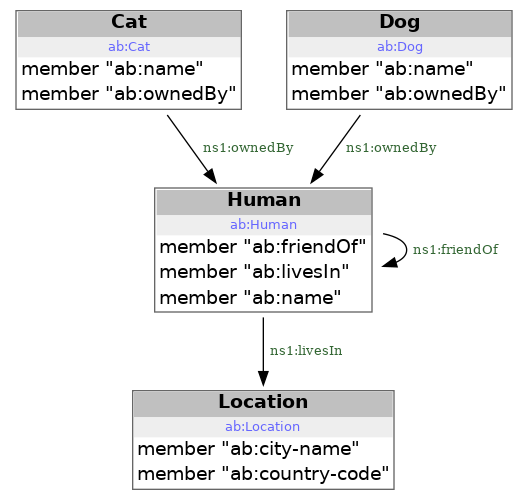
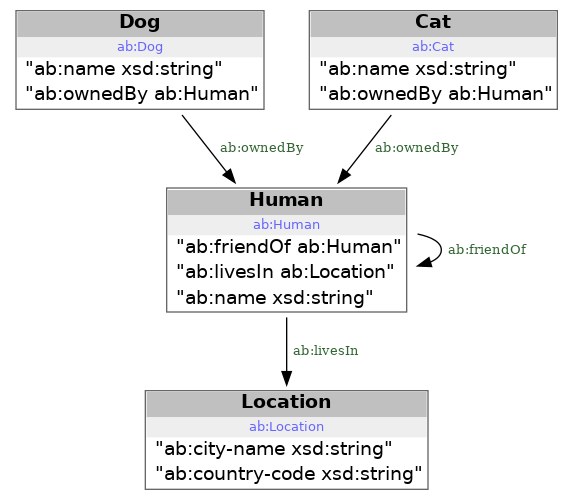
fixed issue in kgm misc gv construct query: rdflib query returns graph with missing source namespaces

diff --git a/py-packages/kgm/kgm/__main__.py b/py-packages/kgm/kgm/__main__.py
@@ -99,9 +99,10 @@ def do_misc_gv(args):
             print(query_text)
             print("---")
             rq_res = g.query(query_text)
+            rq_res.graph.namespace_manager = g.namespace_manager # to fix missing namespace bind after construct
+
             print(f"after contruct: {len(rq_res.graph)} triples")
-            for row in rq_res.graph:
-                print([str(x) for x in row])
+            #for row in rq_res.graph: print([str(x) for x in row])
             print(f"saving to {output_png_file}")
             graphviz_utils.generate_png(rq_res.graph, png_file = output_png_file)
     else:

diff --git a/docs/docs/sparql-example/rdflib-sparql-short.py b/docs/docs/sparql-example/rdflib-sparql-short.py
@@ -1,12 +1,9 @@
 import urllib.request
 import rdflib
 
-# to quickly look at content: wget -q -O - http://h1:8001/kgm/sparql-example/ab.data.ttl
-
 ttl_file_url = 'http://h1:8001/kgm/sparql-example/ab.data.ttl'
 with urllib.request.urlopen(ttl_file_url) as fd:
     g = rdflib.Graph()
-    print("loading triples from", ttl_file_url)
     g.parse(fd, format = "turtle")
 
     rq = """
@@ -22,6 +19,4 @@ with urllib.request.urlopen(ttl_file_url) as fd:
     }
     """
 
-    rq_res = g.query(rq)
-    for row in rq_res:
-        print([str(x) for x in row])
+    for row in g.query(rq): print([str(x) for x in row])

diff --git a/docs/docs/sparql-example/rdflib-sparql.py b/docs/docs/sparql-example/rdflib-sparql.py
@@ -21,14 +21,13 @@ with urllib.request.urlopen(ttl_file_url) as fd:
       ?owner ab:name ?owner_name.
     }
     """
-    print(f"query on {len(g)} triples, result below")
-    print("---------")
+    print(f"query on {len(g)} triples")
     print(rq)
-    print("---------")
     
     rq_res = g.query(rq)
+    print([str(x) for x in rq_res.vars])
+    print("=========")
     for row in rq_res:
         print([str(x) for x in row])
-
-    print("")
-    print("all done.")
+    print(".")
+    
